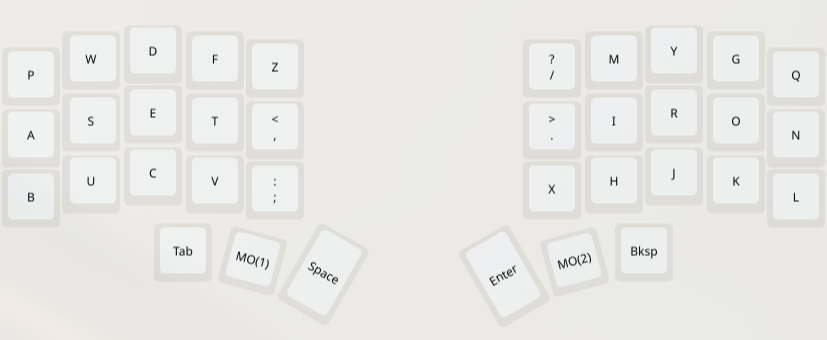
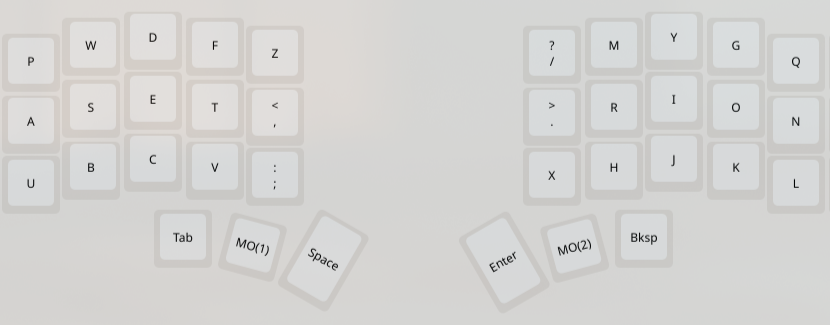
Switch I and R, and B and U, to reduce SFB

diff --git a/README.md b/README.md
@@ -24,13 +24,13 @@ Instead, Cadence aims to be a significant improvement over QWERTY for those who 
 
 To objectively measure the efficiency of this layout, it was analyzed and compared against QWERTY, Dvorak, Workman and Colemak-DH using a standard English text corpus.
 
-| Metric                   | QWERTY | Dvorak | Workman | Colemak-DH |  Cadence   |
-| ------------------------ | :----: | :----: | :-----: | :--------: | :--------: |
-| **Home Row Usage**       | 32.30% | 67.85% | 65.65%  |   67.70%   | **65.20%** |
-| **Same-Finger Bigrams**  | 4.39%  | 1.87%  |  1.97%  |   0.91%    | **4.50%**  |
-| **Skip Bigrams (2u)**    | 1.43%  | 0.45%  |  0.60%  |   0.41%    | **0.33%**  |
-| **Last Stretch Bigrams** | 4.55%  | 0.80%  |  1.11%  |   1.27%    | **0.35%**  |
-| **Scissors**             | 1.46%  | 0.08%  |  0.47%  |   0.15%    | **0.41%**  |
+| Metric                   | QWERTY | Dvorak | Workman | Colemak-DH | Cadence v1.0.1 | Cadence v1.0.0 |
+| ------------------------ | :----: | :----: | :-----: | :--------: | :------------: | :------------: |
+| **Home Row Usage**       | 32.30% | 67.85% | 65.65%  |   67.70%   |     65.20%     |   **65.20%**   |
+| **Same-Finger Bigrams**  | 4.39%  | 1.87%  |  1.97%  |   0.91%    |     4.50%      |   **3.35%**    |
+| **Skip Bigrams (2u)**    | 1.43%  | 0.45%  |  0.60%  |   0.41%    |     0.33%      |   **0.36%**    |
+| **Last Stretch Bigrams** | 4.55%  | 0.80%  |  1.11%  |   1.27%    |     0.35%      |   **0.33%**    |
+| **Scissors**             | 1.46%  | 0.08%  |  0.47%  |   0.15%    |     0.41%      |   **0.10%**    |
 
 ![Heatmap](heatmap.jpg)
 
@@ -46,7 +46,8 @@ Furthermore, these analyzers use standard English prose for their calculations, 
 - [Dvorak](https://cyanophage.github.io/playground.html?layout=%27%2C.pyfgcrl%2Faoeuidhtns-%3Bqjkxbmwvz%5C%5E&mode=ergo&lan=english&thumb=l)
 - [Workman](https://cyanophage.github.io/playground.html?layout=qdrwbjfup%3B-ashtgyneoi%27zxmcvkl%2C.%2F%5C%5E&mode=ergo&lan=english&thumb=l)
 - [Colemak-DH](https://cyanophage.github.io/playground.html?layout=qwfpbjluy%3B-arstgmneio%27zxcdvkh%2C.%2F%5C%5E&mode=ergo&lan=english&thumb=l)
-- [Cadence](https://cyanophage.github.io/playground.html?layout=pwdfz%2Fmygq-aset%2C.iron%27bucv%3Bxhjkl%5C%5E&mode=ergo&lan=english&thumb=l)
+- [Cadence v0.0.1](https://cyanophage.github.io/playground.html?layout=pwdfz%2Fmygq-aset%2C.iron%27bucv%3Bxhjkl%5C%5E&mode=ergo&lan=english&thumb=l)
+- [Cadence v1.0.0](https://cyanophage.github.io/playground.html?layout=pwdfz%2Fmygq-aset%2C.rion%27ubcv%3Bxhjkl%5C%5E&mode=ergo&lan=english&thumb=l)
 
 ## Feedback & Contributing
 
